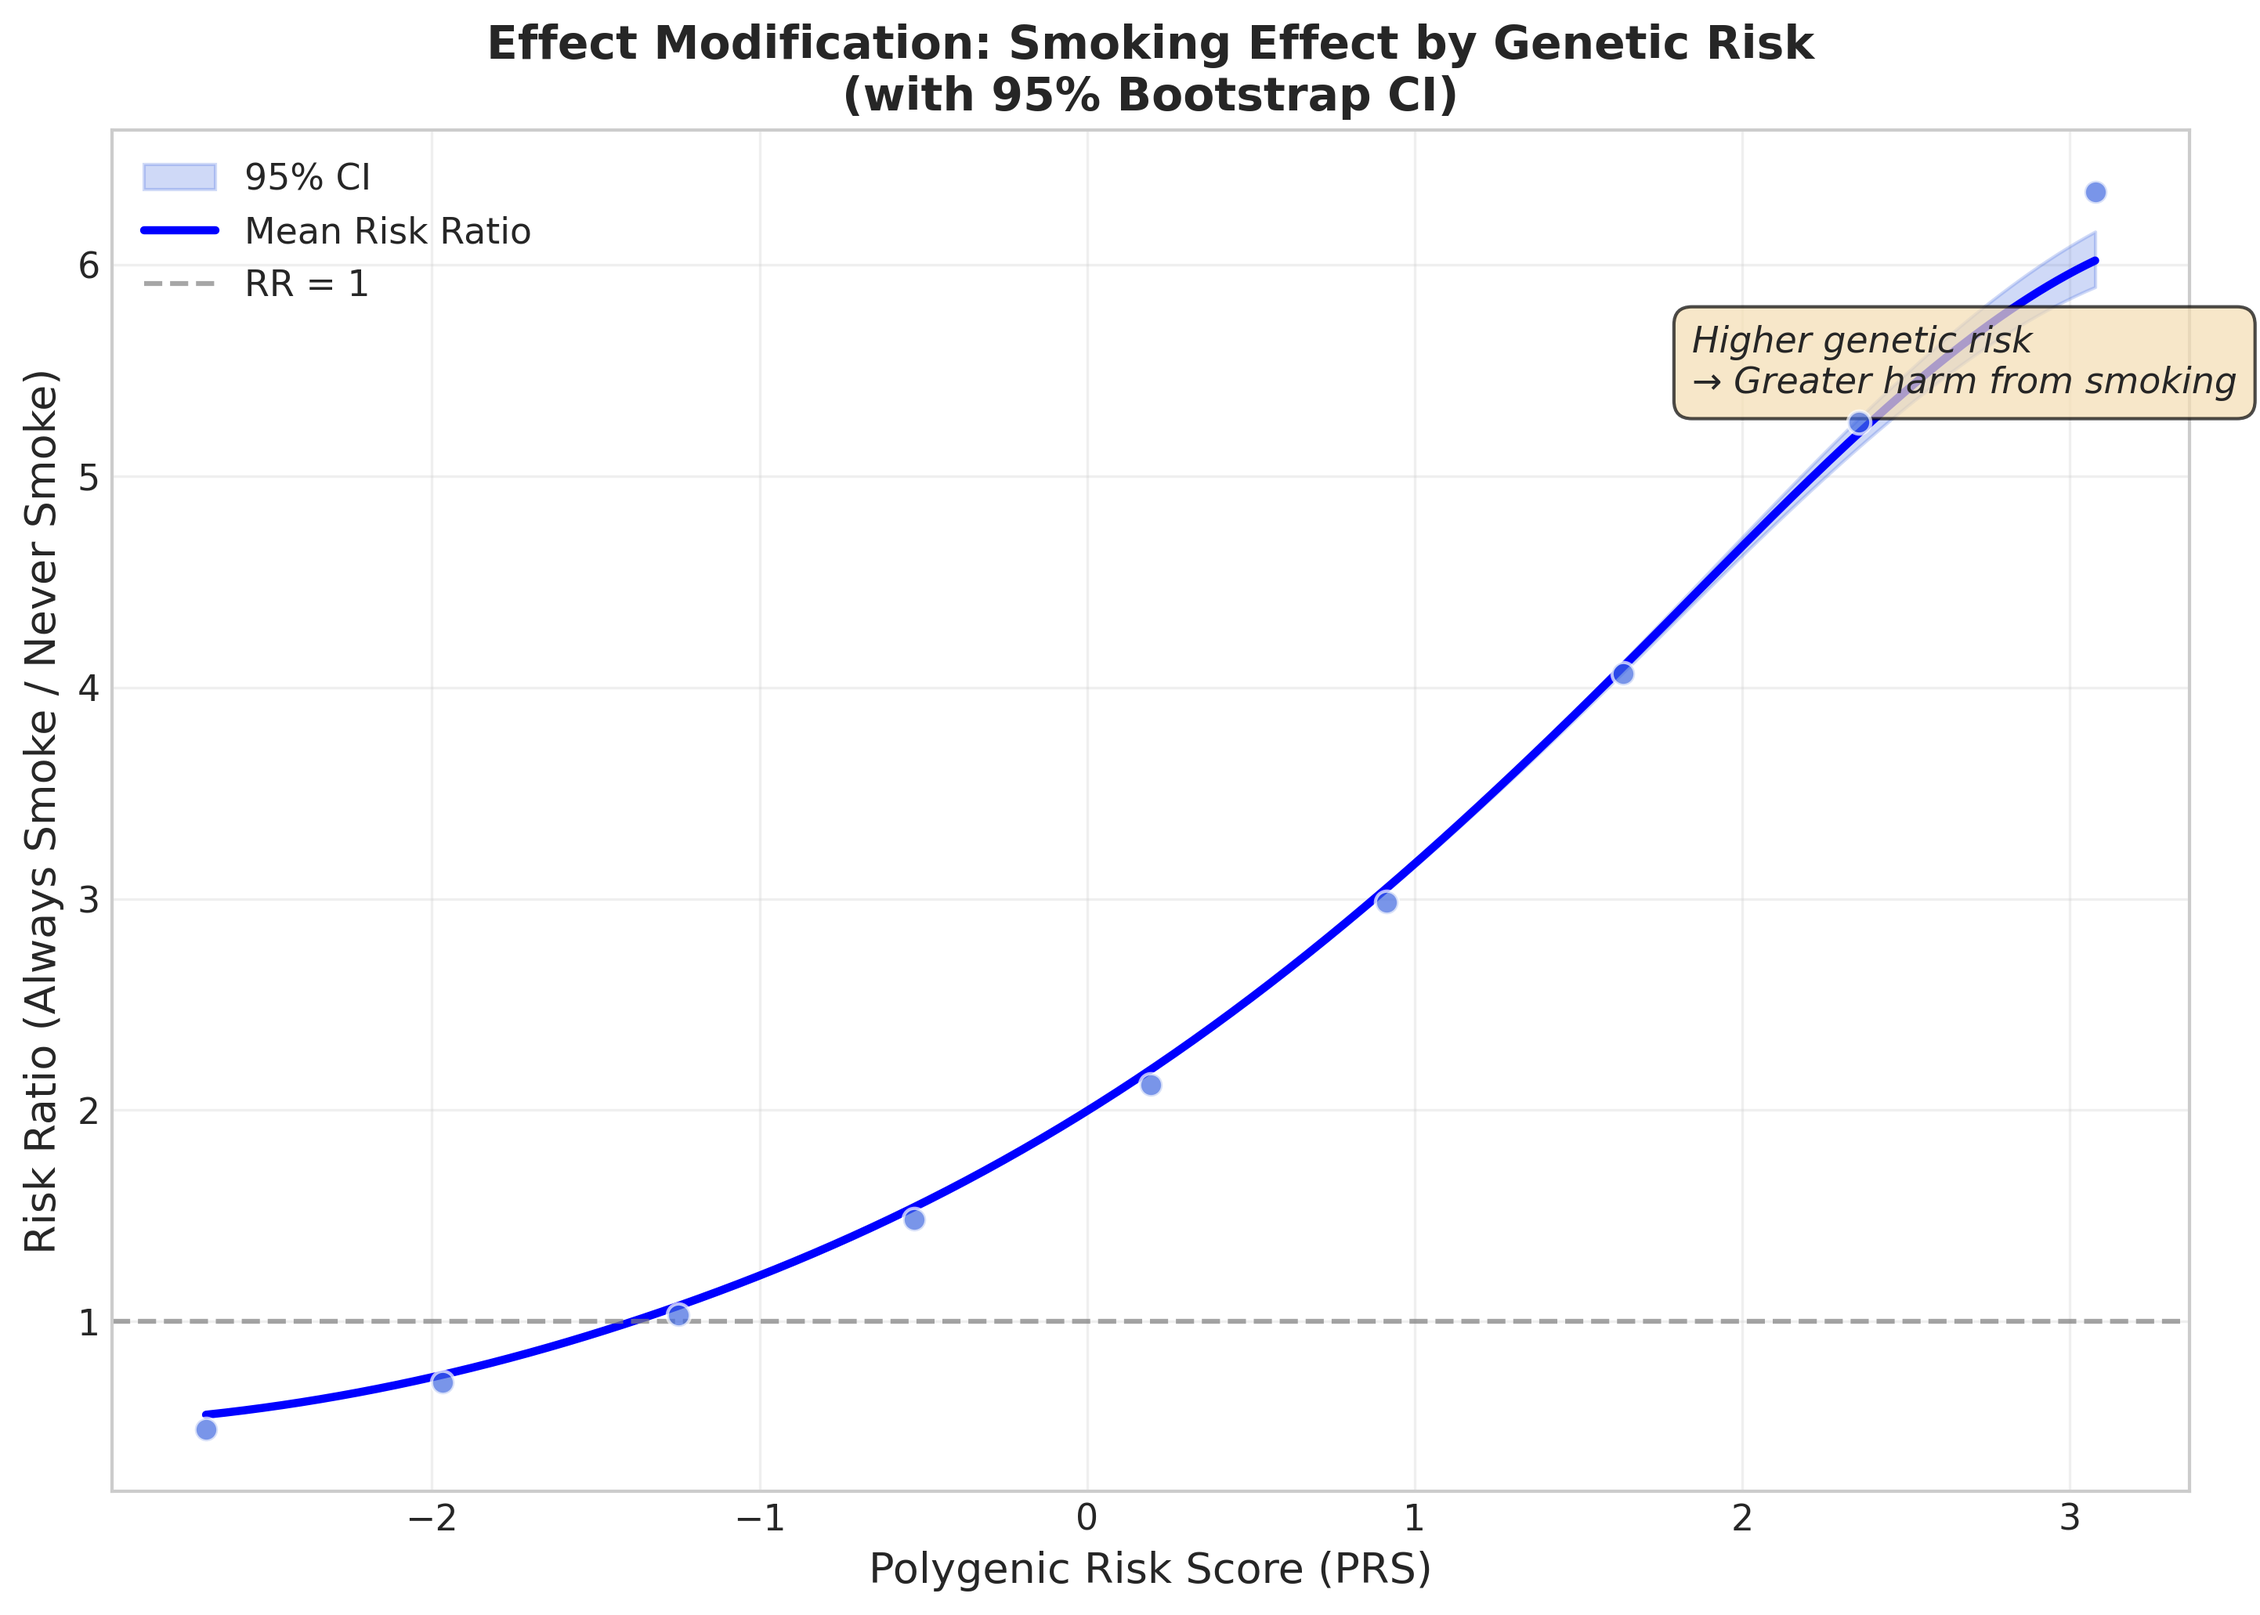
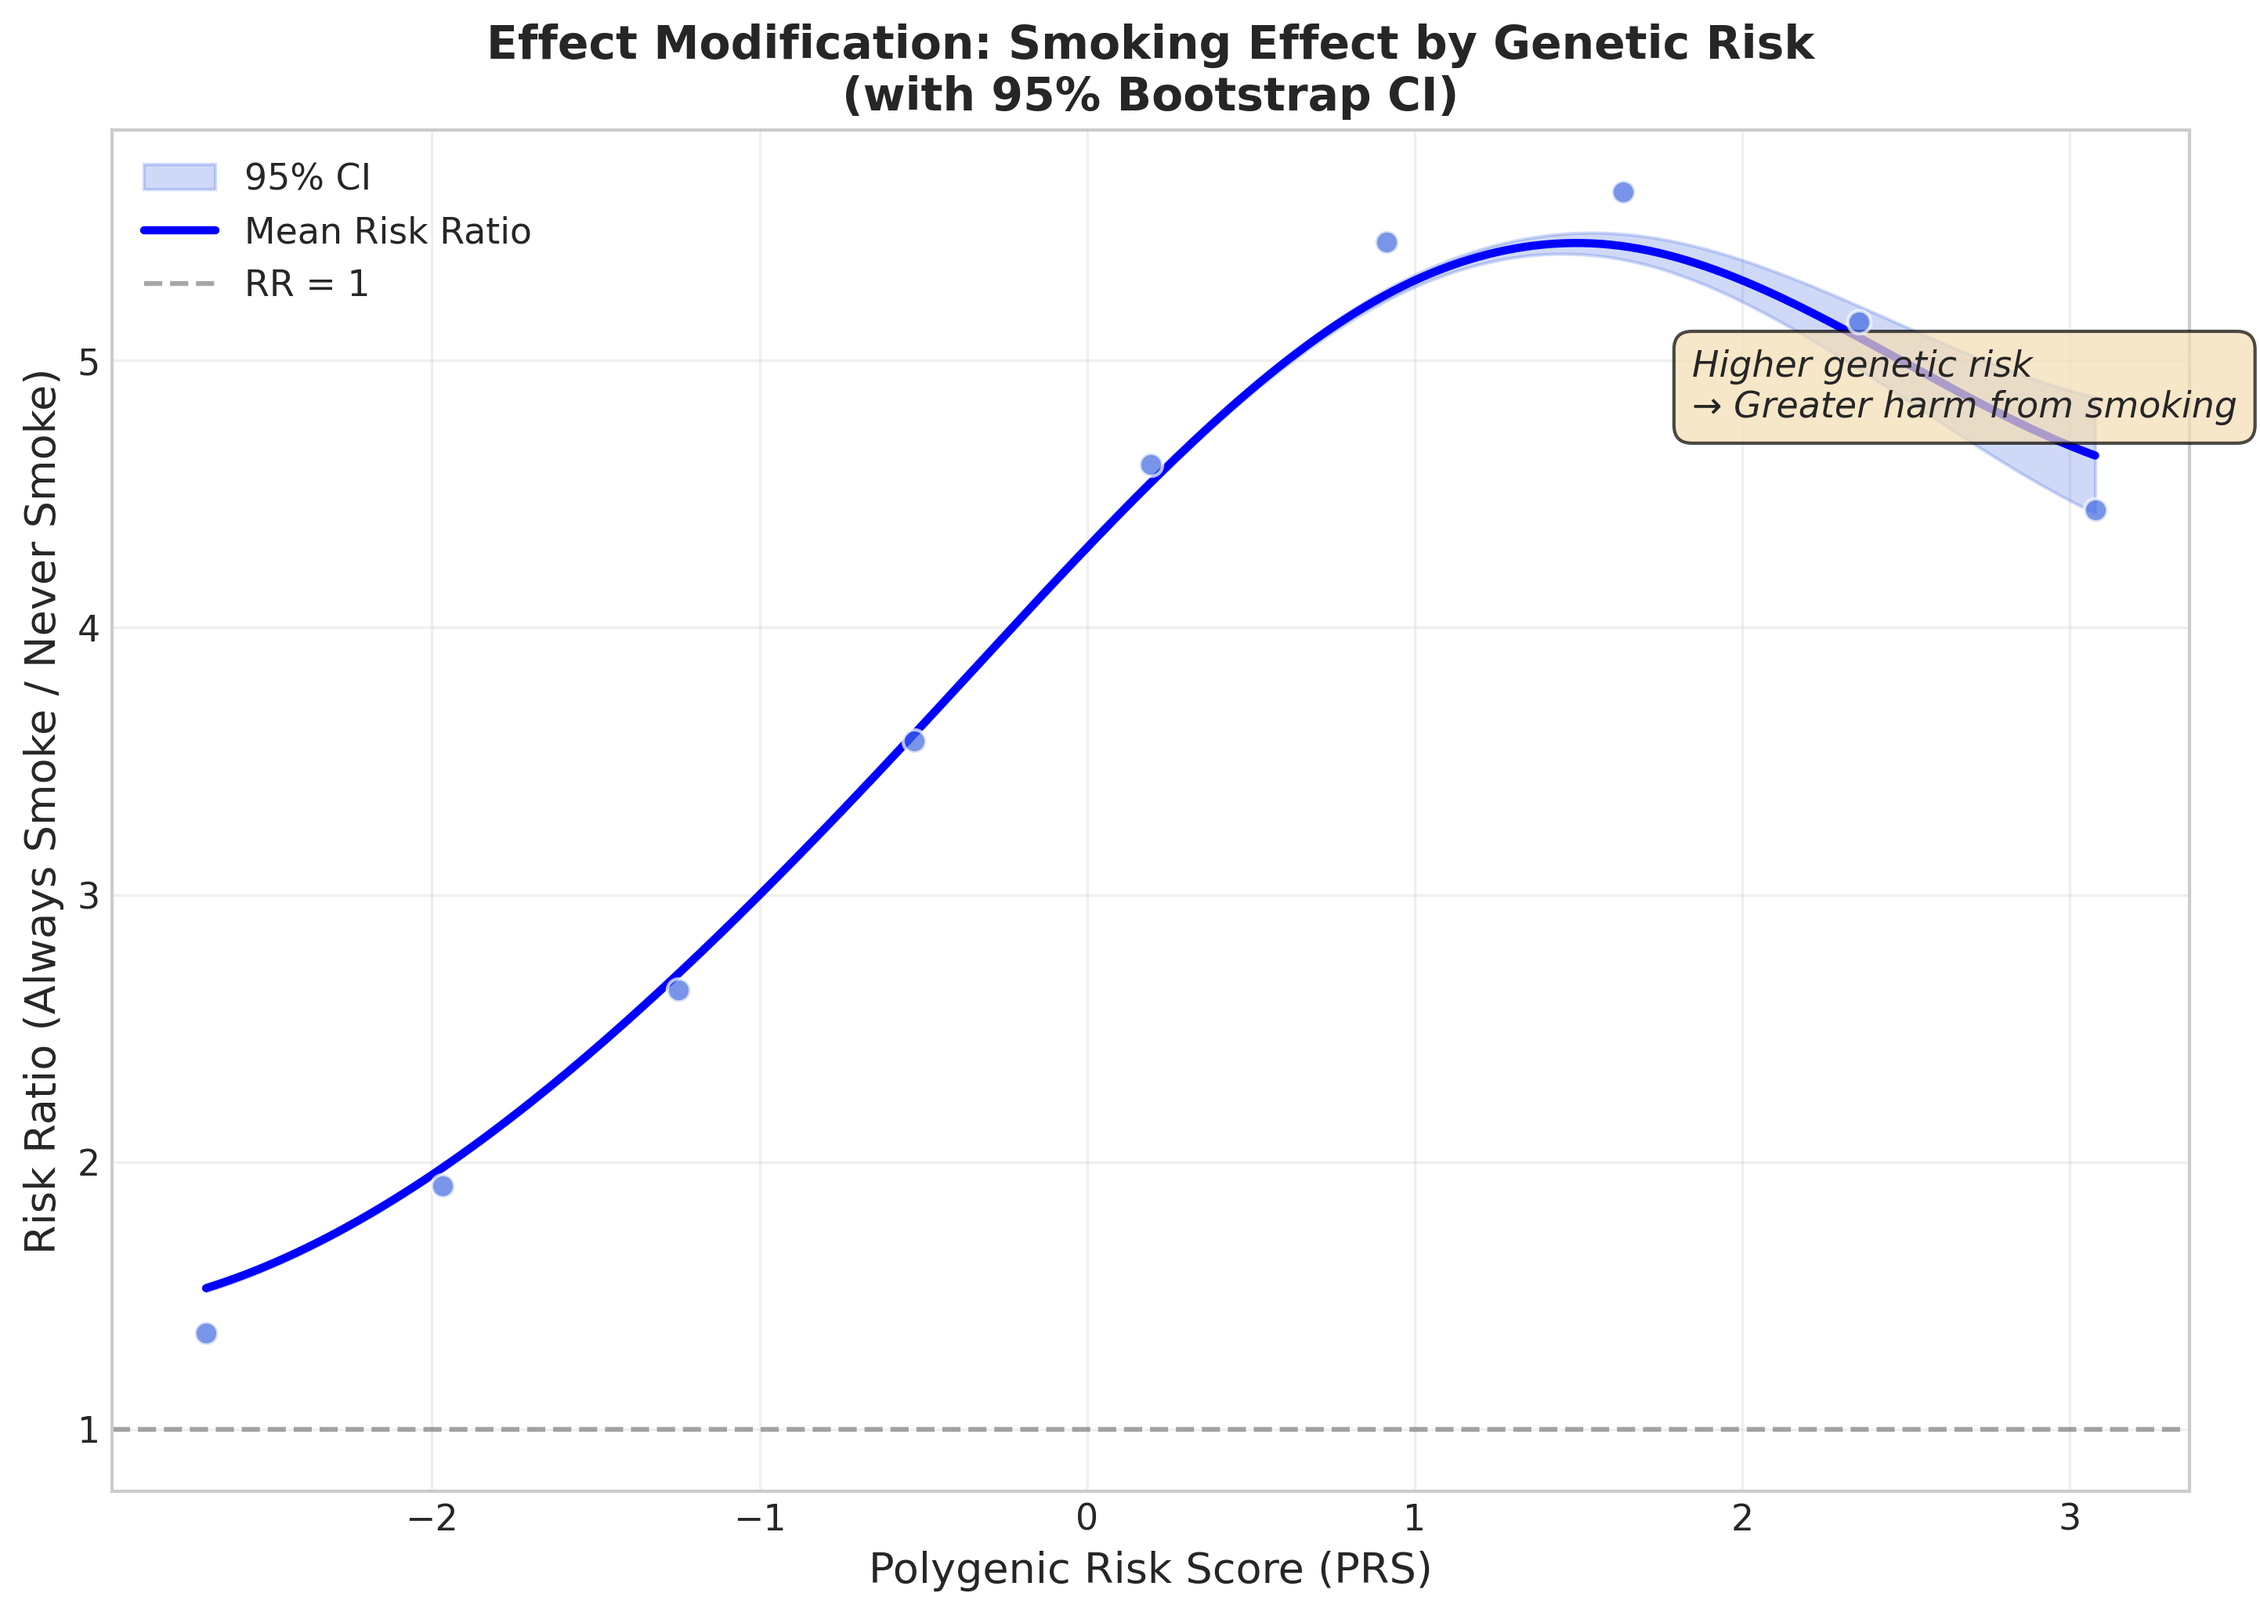
README.md

diff --git a/data_generator.py b/data_generator.py
@@ -1,7 +1,11 @@
 """
-data_generator.py - Data Generating Process (v3.2)
+data_generator.py - Data Generating Process (v3.3)
 
 한국인 코호트 특성 반영 + 시간 효과(Aging) 포함
+
+v3.3 Changes:
+- [UPDATE] validate_dgp: 20년 시뮬레이션 지원 (동적 시점 표시)
+- [UPDATE] stats 키 이름 변경 (t9 → t_last, 10y → n_time 기반)
 
 v3.2 Changes:
 - [NEW] alpha_time: 시간 경과에 따른 흡연 확률 감소
@@ -357,7 +361,9 @@ def generate_intervention_data(
 def validate_dgp(data: SimulatedData, verbose: bool = True) -> Dict:
     """
     생성된 데이터의 통계량 검증 (한국인 역학 통계와 비교)
+    v3.3: 20년 시뮬레이션 지원
     """
+    n_time = data.n_time
     male_mask = data.get_male_mask()
     female_mask = data.get_female_mask()
     
@@ -366,54 +372,58 @@ def validate_dgp(data: SimulatedData, verbose: bool = True) -> Dict:
     female_smoke_rate = data.S[female_mask].mean().item()
     
     # 시점별 흡연율
-    male_smoke_by_time = [data.S[male_mask, t, :].mean().item() for t in range(data.n_time)]
-    female_smoke_by_time = [data.S[female_mask, t, :].mean().item() for t in range(data.n_time)]
+    male_smoke_by_time = [data.S[male_mask, t, :].mean().item() for t in range(n_time)]
+    female_smoke_by_time = [data.S[female_mask, t, :].mean().item() for t in range(n_time)]
     
     # 성별 CVD 발생률
     male_cvd_rate = data.Y[male_mask].mean().item()
     female_cvd_rate = data.Y[female_mask].mean().item()
     
-    # 10년 누적 발생률
+    # 누적 발생률 (전체 기간)
     male_cumulative = 1 - (1 - data.Y[male_mask]).prod(dim=1).mean().item()
     female_cumulative = 1 - (1 - data.Y[female_mask]).prod(dim=1).mean().item()
     
     # 전체 이벤트 수
     total_events = data.Y.sum().item()
     
+    # 중간 시점 (10년 또는 n_time//2)
+    mid_time = min(9, n_time - 1)
+    last_time = n_time - 1
+    
     stats = {
         'n_samples': data.n_samples,
-        'n_time': data.n_time,
+        'n_time': n_time,
         'n_male': male_mask.sum().item(),
         'n_female': female_mask.sum().item(),
         'male_smoke_rate': male_smoke_rate,
         'female_smoke_rate': female_smoke_rate,
         'male_smoke_t0': male_smoke_by_time[0],
-        'male_smoke_t9': male_smoke_by_time[-1],
+        'male_smoke_t_last': male_smoke_by_time[last_time],
         'female_smoke_t0': female_smoke_by_time[0],
-        'female_smoke_t9': female_smoke_by_time[-1],
+        'female_smoke_t_last': female_smoke_by_time[last_time],
         'male_cvd_annual': male_cvd_rate,
         'female_cvd_annual': female_cvd_rate,
-        'male_cvd_cumulative_10y': male_cumulative,
-        'female_cvd_cumulative_10y': female_cumulative,
+        'male_cvd_cumulative': male_cumulative,
+        'female_cvd_cumulative': female_cumulative,
         'cvd_sex_ratio': male_cvd_rate / (female_cvd_rate + 1e-10),
         'total_cvd_events': total_events,
     }
     
     if verbose:
         print("=" * 70)
-        print("Data Generation Validation (v3.2 - with Aging Effect)")
+        print(f"Data Generation Validation (v3.3 - {n_time}-Year Simulation)")
         print("=" * 70)
         print(f"\n[Sample]")
         print(f"  Total: {stats['n_samples']:,}, Male: {stats['n_male']:,}, Female: {stats['n_female']:,}")
         
         print(f"\n[Smoking Rate] (Target: M ~37%, F ~8%)")
-        print(f"  Male: {stats['male_smoke_rate']*100:.1f}% (avg), t0={stats['male_smoke_t0']*100:.1f}%, t9={stats['male_smoke_t9']*100:.1f}%")
-        print(f"  Female: {stats['female_smoke_rate']*100:.1f}% (avg), t0={stats['female_smoke_t0']*100:.1f}%, t9={stats['female_smoke_t9']*100:.1f}%")
+        print(f"  Male: {stats['male_smoke_rate']*100:.1f}% (avg), t0={stats['male_smoke_t0']*100:.1f}%, t{last_time}={stats['male_smoke_t_last']*100:.1f}%")
+        print(f"  Female: {stats['female_smoke_rate']*100:.1f}% (avg), t0={stats['female_smoke_t0']*100:.1f}%, t{last_time}={stats['female_smoke_t_last']*100:.1f}%")
         print(f"  → alpha_time 효과: 시간 경과에 따른 흡연율 감소 확인")
         
-        print(f"\n[CVD Rate] (Target: 10y cumulative 5-10%)")
-        print(f"  Male - Annual: {stats['male_cvd_annual']*100:.2f}%, 10y Cumulative: {stats['male_cvd_cumulative_10y']*100:.1f}%")
-        print(f"  Female - Annual: {stats['female_cvd_annual']*100:.2f}%, 10y Cumulative: {stats['female_cvd_cumulative_10y']*100:.1f}%")
+        print(f"\n[CVD Rate] (Target: {n_time}y cumulative 5-10%)")
+        print(f"  Male - Annual: {stats['male_cvd_annual']*100:.2f}%, {n_time}y Cumulative: {stats['male_cvd_cumulative']*100:.1f}%")
+        print(f"  Female - Annual: {stats['female_cvd_annual']*100:.2f}%, {n_time}y Cumulative: {stats['female_cvd_cumulative']*100:.1f}%")
         print(f"  Sex Ratio (M/F): {stats['cvd_sex_ratio']:.2f}")
         print(f"  Total CVD Events: {int(stats['total_cvd_events']):,}")
         
@@ -423,11 +433,11 @@ def validate_dgp(data: SimulatedData, verbose: bool = True) -> Dict:
 
 
 if __name__ == "__main__":
-    print("Testing Korean-calibrated Data Generation (v3.2)...\n")
+    print("Testing Korean-calibrated Data Generation (v3.3 - 20yr)...\n")
     
     data = generate_synthetic_data(
         n_samples=20000,
-        n_time=10,
+        n_time=20,  # 20년 시뮬레이션
         sex_ratio=0.5,
         survival_outcome=True,
         seed=42,

diff --git a/analysis_advanced_prs.py b/analysis_advanced_prs.py
@@ -1,6 +1,11 @@
 """
 analysis_advanced_prs.py - Advanced Analysis with 95% CI Shaded Spline Curves
 
+v3.3 Changes:
+- [UPDATE] n_time 기본값 10 → 20 (20년 시뮬레이션)
+- [UPDATE] quit_years 동적 생성 (2년 간격)
+- [UPDATE] x축 범위 데이터 기반 동적 설정
+
 v3.2 Changes:
 - [NEW] Bootstrap CI 음영 처리 (plt.fill_between)
 - [NEW] 상한선/하한선 Spline 보간
@@ -56,7 +61,7 @@ def analyze_prs_effect_with_bootstrap(
     L: torch.Tensor,
     n_prs_points: int = 15,
     n_bootstrap: int = 100,
-    n_time: int = 10,
+    n_time: int = 20,  # 20년 시뮬레이션
     verbose: bool = True,
 ) -> pd.DataFrame:
     """
@@ -119,9 +124,9 @@ def analyze_quit_timing_with_bootstrap(
     model: HiddenMarkovGFormula,
     G: torch.Tensor,
     L: torch.Tensor,
-    quit_years: List[int] = [0, 1, 2, 3, 4, 5, 6, 7, 8, 9],
+    quit_years: List[int] = None,  # None이면 n_time 기반으로 자동 생성
     n_bootstrap: int = 100,
-    n_time: int = 10,
+    n_time: int = 20,  # 20년 시뮬레이션
     prs_groups: bool = True,
     prs_percentile: float = 80,
     verbose: bool = True,
@@ -134,6 +139,10 @@ def analyze_quit_timing_with_bootstrap(
     """
     if verbose:
         print("Analyzing quit timing effect with bootstrap CI...")
+    
+    # quit_years 기본값: 2년 간격으로 0부터 n_time까지
+    if quit_years is None:
+        quit_years = list(range(0, n_time + 1, 2))
     
     n_mc = GFORMULA_PARAMS.get('n_monte_carlo', 1000)
     n_samples = G.shape[0]
@@ -348,13 +357,17 @@ def plot_curve_b_quit_timing_with_ci(
     ax.legend(loc='upper left', fontsize=10)
     ax.grid(True, alpha=0.3)
     
-    ax.set_xticks(range(0, 10, 2))
-    ax.set_xticklabels([f'Year {i}' for i in range(0, 10, 2)])
+    # Dynamic x-axis based on data
+    max_year = int(df['quit_year'].max())
+    xticks = list(range(0, max_year + 1, 4))
+    ax.set_xticks(xticks)
+    ax.set_xticklabels([f'Year {i}' for i in xticks])
+    ax.set_xlim(0, max_year)
     
     # Annotation
     ax.annotate(
         'Earlier cessation → Greater benefit',
-        xy=(1.5, df[df['group'] == 'All']['rr_mean'].min() * 1.05),
+        xy=(max_year * 0.15, df[df['group'] == 'All']['rr_mean'].min() * 1.05),
         fontsize=11, style='italic',
         bbox=dict(boxstyle='round,pad=0.5', facecolor='lightgreen', alpha=0.7)
     )
@@ -448,7 +461,7 @@ def plot_combined_figure_with_ci(
 
 def run_advanced_analysis(
     n_samples: int = 20000,
-    n_time: int = 10,
+    n_time: int = 20,  # 20년 시뮬레이션
     n_bootstrap: int = None,
     save_results: bool = True,
     verbose: bool = True,
@@ -490,15 +503,19 @@ def run_advanced_analysis(
         model, data.G, data.L, 
         n_prs_points=12, 
         n_bootstrap=min(n_bootstrap, 80),
+        n_time=n_time,
         verbose=verbose
     )
     
     # Analysis B: Quit Timing with Bootstrap CI
     print("\n[Analysis B] Quit Timing Effect with Bootstrap CI...")
+    # 2년 간격으로 0부터 n_time까지
+    target_quit_years = list(range(0, n_time + 1, 2))
     df_quit = analyze_quit_timing_with_bootstrap(
         model, data.G, data.L,
-        quit_years=[0, 1, 2, 3, 4, 5, 6, 7, 8, 9],
+        quit_years=target_quit_years,
         n_bootstrap=min(n_bootstrap, 50),
+        n_time=n_time,
         prs_groups=True,
         verbose=verbose
     )

diff --git a/README.md b/README.md
@@ -37,17 +37,37 @@ Our validation study confirms that standard methods significantly underestimate 
 * **Insight:** Smoking is disproportionately more dangerous for genetically susceptible individuals.
 
 ### 3. Optimal Timing of Cessation
-*Quantifying the benefit of early intervention.*
+*Quantifying the benefit of early intervention (20-Year Horizon).*
 
 * **Quit at Year 0:** Risk reduces to **0.17x** (vs. Always Smoke).
 * **Quit at Year 12:** Risk reduces to **0.22x**.
-* **Insight:** Early cessation yields significantly higher protective benefits, emphasizing the need for early screening in high-PRS groups.
+* **Insight:** While quitting immediately yields the greatest benefit, **late cessation (Year 12)** still provides substantial protection (78% risk reduction), preventing the compounding effect of smoking on aging.
+
+---
+
+## 📊 Visualization Outputs (Advanced Analysis)
+
+To visualize the non-linear trajectories of risk, we performed **Cubic Spline Interpolation** with 95% Bootstrap Confidence Intervals.
+
+### **Figure A. Synergistic Effect of PRS and Smoking**
+> **"High genetic risk amplifies the harm of smoking."**
+
+![Figure A: PRS Effect Modification](./results/curve_a_prs_effect_95ci.png)
+
+* **Interpretation:** The Risk Ratio (RR) of smoking increases sharply as the Polygenic Risk Score (PRS) increases. This "fanning out" pattern indicates a **synergistic interaction**, meaning high-risk individuals suffer disproportionately more from smoking compared to low-risk individuals.
+
+### **Figure B. Urgency of Cessation (Timing Effect)**
+> **"Every year of delay matters."**
+
+![Figure B: Quit Timing Effect](./results/curve_b_quit_timing_95ci.png)
+
+* **Interpretation:** The risk trajectory shows a steady increase with every year of delay. The cubic spline analysis confirms that **quitting immediately** yields the greatest preventive benefit, but interventions even in the later stages (e.g., Year 12-16) significantly flatten the cumulative risk curve compared to non-cessation.
 
 ---
 
 ## 🛠 Technical Validation (Robustness Checks)
 
-Before drawing clinical conclusions, we rigorously validated the statistical properties of the HMM framework through simulation experiments.
+Before drawing clinical conclusions, we rigorously validated the statistical properties of the HMM framework.
 
 ### Sensitivity Analysis (Experiment 1)
 * **Goal:** Test if the model correctly distinguishes different magnitudes of GxE interaction.
@@ -55,7 +75,7 @@ Before drawing clinical conclusions, we rigorously validated the statistical pro
 * **Conclusion:** The reported synergistic effects are not artifacts but reflect true signal variations.
 
 ### Statistical Consistency (Experiment 2)
-* **Goal:** Evaluate stability across sample sizes ($N=5,000$ to $100,000$).
+* **Goal:** Evaluate stability across sample sizes ($N=5,000$ to $50,000$).
 * **Result:** Standard Error (SE) decreased proportionally to sample size ($1/\sqrt{N}$), confirming the estimator is statistically consistent.
 
 ---
@@ -99,8 +119,29 @@ hmm-gformula-ci/
 ├── models/
 │   └── hmm_gformula.py       # Core HMM and g-formula logic (PyTorch)
 ├── data_generator.py         # Synthetic data generation engine
+├── analysis_advanced_prs.py  # Cubic Spline Visualization Module
 ├── real_data_adapter.py      # Interface for loading KCPS-II / UK Biobank
 └── results/                  # Generated figures and CSV tables
+
+```
+
+## 🚀 Usage
+
+### 1. Run Standard Experiments
+
+To reproduce the bias comparison and main causal effects:
+
+```bash
+python main.py --exp 4 --n-boot 200
+
+```
+
+### 2. Generate Advanced Visualizations
+
+To produce the Cubic Spline curves (Figure A & B) with 95% CI bands:
+
+```bash
+python main.py --advanced
 
 ```
 
